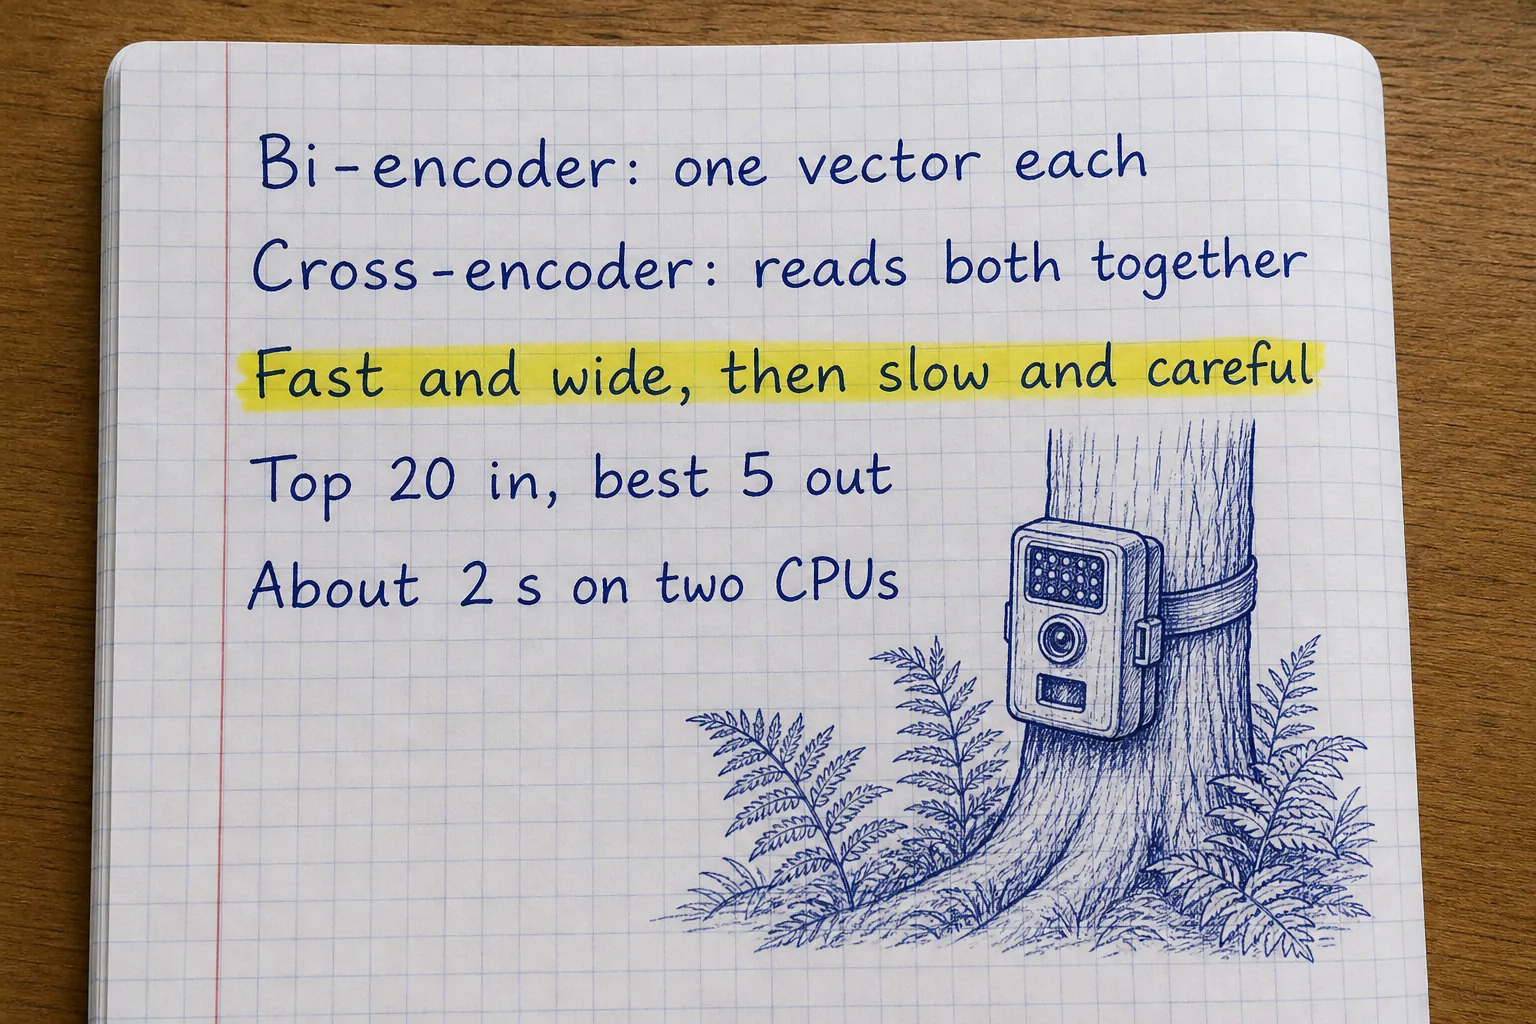
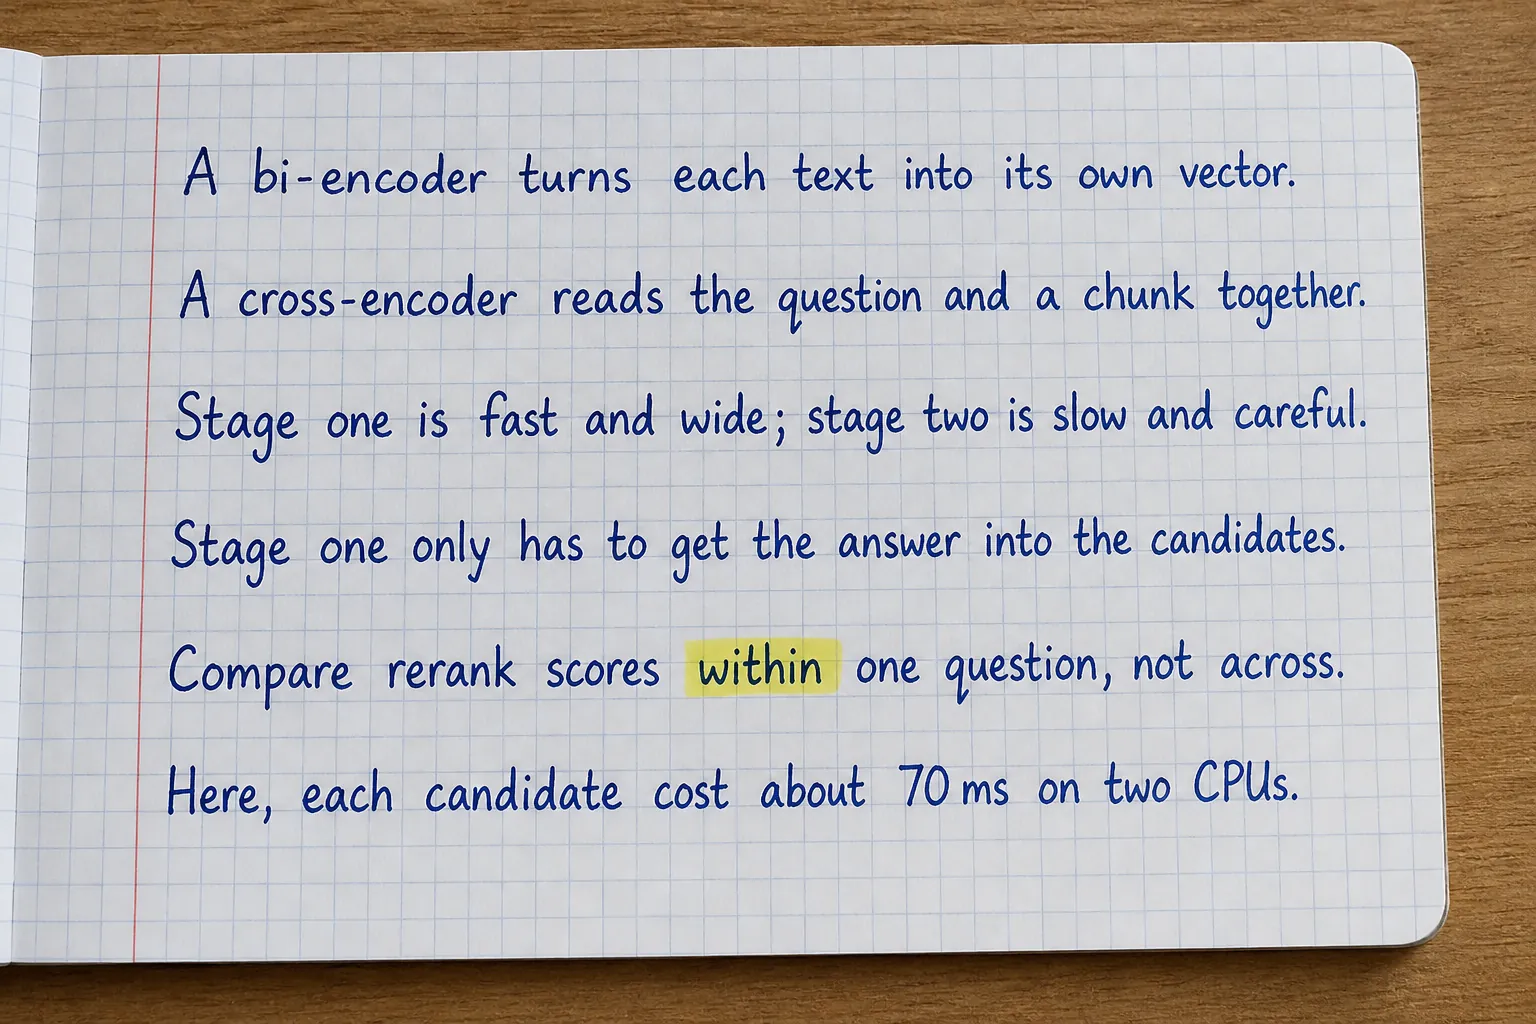
RAG chapter 10 rewritten: plain and fuller, a still two-stage picture with the real jeep run, claims checked and corrected

diff --git a/frontend/src/lesson/Diagrams.tsx b/frontend/src/lesson/Diagrams.tsx
@@ -3620,19 +3620,35 @@ function RagRrf() {
 }
 
 function RagTwoStage() {
+  // Real run of rerank_demo.py for the jeep question (55 chunks, 2 CPUs).
+  const fused = ["FM-1.2", "R-0305", "FM-2.2", "FM-3.3", "FM-6.4", "R-0307", "FM-3.2", "FM-6.2"];
+  const reranked: [string, string][] = [["FM-6.2", "-6.6"], ["R-0305", "-6.8"], ["FM-6.3", "-10.5"], ["R-0310", "-10.6"], ["FM-6.5", "-10.6"]];
+  const top = 104, step = 26, h = 22, w = 170, rx = 270;
+  const y = (i: number) => top + i * step;
   return (
-    <SketchSteps
-      title="Wide, then careful"
-      intro="Press Play to follow the jeep question through two stages."
-      label="Reranking"
-      steps={[
-        { label: "the question", says: "Can tourists get out of the jeep to take photos?" },
-        { label: "stage 1: hybrid", says: "Dense search and BM25 each rank the 55 chunks; fusion keeps the best 20. FM-6.2 is in, but only 8th." },
-        { label: "stage 2: rerank", says: "The cross-encoder reads the question with each of the 20 chunks, one pair at a time, about 100 ms each." },
-        { label: "new order", says: "FM-6.2 Visitor rules gets the highest score of the 20 and moves to the top." },
-        { label: "the best 5", says: "The top 5 go to the model as numbered sources." },
-      ]}
-    />
+    <Svg viewBox="0 0 440 432" label="Hybrid search ranks FM-6.2 eighth of 20 candidates for the jeep question; the cross-encoder reads all 20 with the question and puts FM-6.2 first">
+      <text className="dg-note" x={0} y={16}>Can tourists get out of the jeep to take photos?</text>
+      <text className="dg-label" x={0} y={54}>Stage 1: hybrid search</text>
+      <text className="dg-note" x={0} y={74}>55 chunks to 20, under 0.1 s</text>
+      <text className="dg-note" x={0} y={92}>fused order, first 8:</text>
+      <text className="dg-label" x={rx} y={54}>Stage 2: cross-encoder</text>
+      <text className="dg-note" x={rx} y={74}>reads all 20, about 1.4 s</text>
+      <text className="dg-note" x={rx} y={92}>best 5 (score):</text>
+      <line className="dg-arrow" x1={w} y1={y(7) + h / 2} x2={rx} y2={y(0) + h / 2} style={{ markerEnd: "none", opacity: 0.6 }} />
+      <g className="dg-cells-small">
+        {fused.map((id, i) => (
+          <Box key={id} x={0} y={y(i)} w={w} h={h} label={`${i + 1}: ${id}`} tone={id === "FM-6.2" ? "highlight" : "plain"} code />
+        ))}
+        {reranked.map(([id, sc], i) => (
+          <Box key={`r${id}`} x={rx} y={y(i)} w={w} h={h} label={`${i + 1}: ${id} (${sc})`} tone={id === "FM-6.2" ? "highlight" : "copy"} code />
+        ))}
+      </g>
+      <text className="dg-note" x={0} y={y(8) + 16}>... 12 more candidates</text>
+      <text className="dg-note" x={0} y={348}>Stage 1 only has to get FM-6.2 into the 20.</text>
+      <text className="dg-note" x={0} y={368}>Stage 2 puts it first: its score is low, but the</text>
+      <text className="dg-note" x={0} y={388}>highest of the 20 candidates.</text>
+      <Box x={0} y={400} w={440} h={30} label="FM-6.2 Visitor rules: 8th, then 1st" tone="highlight" />
+    </Svg>
   );
 }
 

diff --git a/labs/rag-vector-databases/chapters/10-rerank.md b/labs/rag-vector-databases/chapters/10-rerank.md
@@ -1,15 +1,18 @@
 :::step{type=story title="A second, careful reading"}
-Look at how every search so far has worked. The chunk was turned into a vector **before** anyone asked anything; the
-question was turned into a vector on its own; then two points were compared. The model that made the chunk's vector never
-saw the question. It had to squeeze everything the chunk might ever be asked about into 384 numbers.
+Look at how every search so far has worked. Each chunk was turned into a vector **before** anyone asked anything. The
+question was turned into a vector on its own. Then the two vectors were compared. The model that made the chunk's vector
+never saw the question: it had to squeeze everything the chunk might ever be asked about into one fixed list of numbers
+(384 of them with bge-small).
 
-That is why the "jeep" question went wrong in chapter 9, and why "big cat" in chapter 3 scored FM-4.2 only a little above
-"Finding a dead animal". The search was fast because it was shallow.
+That is why the "jeep" question went wrong in chapter 9, and why in chapter 3 the big-cat question scored FM-4.2, the
+right section, only a little above "Finding a dead animal" (0.595 against 0.565). The search was fast because each side
+was read alone.
 
-There is a slower, deeper way: give a model the question **and** a chunk **together**, and let it read both and say how
-well the chunk answers the question. Doing that for all 55 chunks for every question would be too slow, but for the 20
-candidates that hybrid search already found, it is affordable. This two-step pattern, a fast wide search followed by a
-slow careful judge, is called **reranking**.
+There is a slower, more careful way: give a model the question **and** a chunk **together**, let it read both, and ask
+for one number: how well does this chunk answer this question? Doing that for every chunk would be slow. Here it would
+take about 4 seconds for Fieldbook's 55 chunks, and it is impossible for millions. But for the 20 candidates that hybrid
+search already found, it is affordable. This two-step pattern, a fast wide search followed by a slow careful judge, is
+called **reranking**.
 
 :::mission
 Rerank hybrid search's candidates with a cross-encoder, then build the two-stage pipeline Fieldbook will use from now on,
@@ -18,48 +21,69 @@ and measure what the extra care costs in time.
 :::
 
 :::step{type=concept title="Bi-encoder and cross-encoder" file="10-rerank/fieldbook.py" line="338-342"}
-Two kinds of model, two ways to compare a question and a text:
+Two kinds of model, two ways to compare a question with a text:
 
 | | Bi-encoder (chapters 2 to 9) | Cross-encoder (this chapter) |
 |---|---|---|
 | reads | the question alone, the chunk alone | the question and the chunk **together** |
-| outputs | one vector each | one relevance score for the pair |
-| chunk work done | once, ahead of time | again for every question |
-| speed | microseconds per comparison | tens of milliseconds per pair on a CPU |
-| quality | good | better: it sees which words answer which |
+| outputs | one vector for each | one relevance score for the pair |
+| work on the chunks | done once, ahead of time | done again for every question |
+| time to compare | about a microsecond, once the vectors exist | about 70 ms per pair, measured on this lab's 2 CPUs |
+| quality | good | usually better: it sees which words of the chunk answer which words of the question |
 
-Fieldbook's cross-encoder is **ms-marco-MiniLM-L-6-v2**: a small transformer (6 layers) trained on hundreds of thousands
-of real web search questions, each with passages people judged relevant. It is already in your lab machine.
+"Bi" means two: the two texts are encoded separately. "Cross" means the two texts are read across each other, in one
+pass.
 
-Its scores are not cosines: they are unbounded numbers where higher means more relevant. Roughly, above 0 is a good
-match and below -5 is a poor one, but, as with cosines, a score is most useful **compared with the other candidates for
-the same question**.
+Fieldbook's cross-encoder is **ms-marco-MiniLM-L-6-v2**. Its name says what it is:
 
-`reranker().rerank(question, texts)` returns one score per text, in the same order as the texts.
+- **MiniLM** is a small **transformer**, the kind of neural network behind today's language models. A transformer is
+  built from **layers**, steps that each refine the model's reading of the text; **L-6** means this one has 6 of them
+  (large models have dozens).
+- **ms-marco** is what it learned from: MS MARCO, a collection of about half a million real web search questions, each
+  with passages that people marked as answering it.
+
+It is already in your lab machine, so it runs offline.
+
+**Its scores are not cosines.** They are plain numbers with no fixed range, where higher means more relevant. On
+Fieldbook's 26 test questions we measured: right chunks scored about 4 in the middle (9 in 10 above -1.9), wrong chunks
+about -11 (9 in 10 below -7). But a score is most useful **compared with the other candidates for the same question**:
+in the jeep question below, the right chunk scores only -6.6, and it is still the best of the 20.
+
+`reranker().rerank(question, texts)` returns one score per text, in the same order as the texts. `reranker()` loads the
+model once and keeps it (`@lru_cache`); loading takes about 0.8 seconds.
 :::
 
 :::step{type=task task=rerank title="Your turn: score question and chunk together" file="10-rerank/fieldbook.py" line="345-350"}
 Write `rerank(question, chunks, top_n=5)`:
 
-1. `scores = list(reranker().rerank(question, [chunk_text(c) for c in chunks]))`.
-2. Order the positions by score, highest first (`np.argsort(scores)[::-1]`), and keep `top_n` of them.
+1. `scores = list(reranker().rerank(question, [chunk_text(c) for c in chunks]))`: one score per chunk.
+2. Order the positions by score, highest first: `np.argsort(scores)[::-1]` (`argsort` sorts lowest first, and `[::-1]`
+   reverses it). Keep the first `top_n`.
 3. Return a **copy** of each of those chunks with its score added: `dict(chunks[i], rerank=float(scores[i]))`.
 
-Copies matter: the index keeps using its chunks for the next question, so do not write into them. Press **Check**.
+The usual slips:
+
+- Writing the score into the chunk itself (`chunks[i]["rerank"] = ...`). The index keeps its chunks for the next question,
+  so they would carry this question's scores. `dict(...)` makes a copy.
+- Forgetting `[::-1]`: you then keep the five **worst** chunks.
+
+Press **Check**.
 :::
 
 :::step{type=history title="Reading the question and the passage together"}
 :::before{title="One vector per passage"}
-Search systems compared precomputed representations: word counts, then embeddings. Fast, but the passage was represented
-without knowing the question.
+Search systems compared representations made ahead of time: word counts, then embeddings. Fast, but each passage was
+represented without knowing the question.
 :::
 
 In **2016** Microsoft released **MS MARCO**, a dataset of real Bing search questions with passages that people marked as
-answering them, big enough to train neural rankers. In **2018** Google published **BERT**, a transformer that reads two
-texts side by side. Rodrigo Nogueira and Kyunghyun Cho fed it a question and a passage together in **2019** and asked for
-one number: the jump in quality on MS MARCO was the largest the benchmark had seen. Smaller copies trained to imitate
-large models (MiniLM, **2020**) made cross-encoders fast enough for a CPU, and hosted reranking services (**2023**) made
-"retrieve, then rerank" a standard part of RAG.
+answering them, big enough to train neural rankers. In **2018** Google published **BERT**, a transformer that can read two
+texts side by side. In **2019** Rodrigo Nogueira and Kyunghyun Cho fed BERT a question and a passage together and asked
+for one number; on MS MARCO it beat the previous best result by 27% (relative, on the leaderboard's main measure).
+
+In **2020** Microsoft's **MiniLM** showed how to train a small transformer to copy a large one, and small cross-encoders
+trained this way became fast enough for an ordinary CPU. From **2023**, hosted reranking services (Cohere's, for example)
+made "retrieve, then rerank" a standard part of RAG.
 
 :::solved
 **Precision where it counts.** The fast search only has to put the right chunk somewhere in the top 20; the careful
@@ -70,8 +94,8 @@ reader puts it first.
 - **2016** MS MARCO: real questions, judged passages.
 - **2018** BERT reads two texts together.
 - **2019** BERT as a reranker (Nogueira and Cho).
-- **2020** MiniLM: small enough for a CPU.
-- **2023** Reranking becomes a standard RAG step.
+- **2020** MiniLM: small transformers that copy big ones.
+- **2023** Hosted reranking becomes a standard RAG step.
 :::
 :::
 
@@ -89,16 +113,26 @@ stage 2: cross-encoder over 20 candidates    slow, careful: the best 5
 ```
 
 :::diagram{name="rag-two-stage"}
-Hybrid search narrows 55 chunks to 20 candidates in milliseconds; the cross-encoder reads each with the question and keeps 5.
+The real jeep question. Hybrid search, which lost FM-6.2 in chapter 9, still has it 8th among its 20 candidates; the
+cross-encoder reads all 20 with the question and puts FM-6.2 first.
 :::
 
 Stage 1 only has to get the right chunk **into** the 20 (its hit rate at 20); stage 2 has to put it **first**. Each stage
-does what it is good at. `first` and `final` are the two dials: more candidates catch more, and cost more reranking time.
+does what it is good at.
+
+`first` and `final` are the two dials. More candidates catch more, and cost more reranking time: about 70 ms each here.
+One limit of this lab's `hybrid()`: it fuses dense search's top 20 with BM25's top 20, so it can never return more than
+40 candidates (for the 26 test questions, at most 35).
 :::
 
 :::step{type=task task=two_stage title="Your turn: wide, then careful" file="10-rerank/fieldbook.py" line="353-357"}
-Write `two_stage(question, index, first=20, final=5)`: get `index.hybrid(question, k=first)` and return
-`rerank(question, those, top_n=final)`. One line.
+Write `two_stage(question, index, first=20, final=5)`:
+
+1. Get the candidates: `index.hybrid(question, k=first)`.
+2. Return `rerank(question, candidates, top_n=final)`.
+
+It fits in one line. The usual slip: passing `final` to `hybrid` and `first` to `rerank`, the wrong way round, so only
+5 candidates are ever read.
 
 ```bash run
 cd /workspace/10-rerank && python rerank_demo.py
@@ -113,43 +147,48 @@ $ python rerank_demo.py
 A night patrol cannot reach base on the radio. What happens?
   hybrid top 5:   ['FM-9.2', 'R-0403', 'FM-2.2', 'FM-1.3', 'R-0408']
   reranked top 5: ['FM-2.2 (3.7)', 'R-0403 (3.1)', 'FM-9.2 (2.1)', 'FM-1.3 (-0.9)', 'FM-3.3 (-3.5)']
-  reranking 20 candidates took 2393 ms
+  reranking 20 candidates took 2490 ms
 
 Who is allowed into the core zone?
   hybrid top 5:   ['FM-1.1', 'FM-6.4', 'FM-2.1', 'FM-6.2', 'FM-9.2']
   reranked top 5: ['FM-6.4 (7.0)', 'FM-1.1 (4.0)', 'FM-9.2 (-1.2)', 'FM-2.1 (-2.2)', 'FM-6.2 (-8.9)']
-  reranking 20 candidates took 1698 ms
+  reranking 20 candidates took 1694 ms
 
 Can tourists get out of the jeep to take photos?
   hybrid top 5:   ['FM-1.2', 'R-0305', 'FM-2.2', 'FM-3.3', 'FM-6.4']
   reranked top 5: ['FM-6.2 (-6.6)', 'R-0305 (-6.8)', 'FM-6.3 (-10.5)', 'R-0310 (-10.6)', 'FM-6.5 (-10.6)']
-  reranking 20 candidates took 1901 ms
+  reranking 20 candidates took 1798 ms
 ```
 
-1. **The night patrol.** Hybrid search put FM-9.2 (radios and phones) first. The reranker prefers **FM-2.2 Night
-   patrols**, which says exactly what happens when a night patrol misses two check-ins, then R-0403, the night the pair
-   on beat B-08 lost radio contact. Both are better answers to this question.
-2. **The core zone.** FM-6.4 (research permits allow entry into the core zone) moves above FM-1.1 (the zone
-   definitions). Either can answer; notice how far apart the scores are (7.0 and 4.0 against -1.2 and below): the
-   reranker is sure about two chunks and not the rest.
-3. **The jeep, repaired.** FM-6.2 Visitor rules, lost by fusion in chapter 9, was still among the 20 candidates, and the
-   reranker puts it back on top. Its score is low (-6.6): this small model is guided a lot by shared words, and the
-   question shares few with the section. But it is the highest of the 20, which is what ranking needs.
+The ids and scores will be the same on your machine; the times will differ a little.
 
-**The price: about 2 seconds a question** on your two CPUs, for 20 chunks (about 100 ms a chunk). Hybrid search took
-about 20 ms. For a ranger asking a question on a phone, 2 seconds is acceptable; for a search box that updates as you
-type, it is not. Chapter 12 measures the gain on all 26 questions, so you can decide whether it is worth it.
+1. **The night patrol.** Hybrid search put FM-9.2 (radios and phones) first. The reranker prefers **FM-2.2 Night
+   patrols**, which says exactly what happens when a night patrol misses two check-ins, then R-0403, the night a patrol
+   pair missed two check-ins because its radio battery failed. Both answer this question better.
+2. **The core zone.** FM-6.4 (research permits allow entry into the core zone) moves above FM-1.1 (the zone
+   definitions). Either can answer. Notice the gap in the scores: 7.0 and 4.0, then -1.2 and below. The reranker is sure
+   about two chunks and not the rest.
+3. **The jeep, repaired.** FM-6.2 Visitor rules, lost by fusion in chapter 9, was still among the 20 candidates (8th),
+   and the reranker puts it back on top. Its score is low (-6.6): the question and the section share almost no words, and
+   this small model leans on shared words. But -6.6 is the highest of the 20, and ranking only needs the order.
+
+**The price.** Reranking 20 chunks took 1.7 to 2.5 seconds a question in this run, on the lab machine's 2 CPUs. The
+first question also paid about 0.8 seconds to load the model; once loaded, we measured about 1.4 seconds, roughly 70 ms a
+chunk. Hybrid search took under 0.1 seconds. For a ranger asking a question on a phone, 1.5 seconds is acceptable; for
+a search box that updates as you type, it is not. Chapter 12 measures the gain on all 26 questions, so you can decide
+whether it is worth it.
 :::
 
 :::step{type=predict title="Guess first"}
 :::question
-You raise `first` from 20 to 55 (every chunk). What happens?
+You raise `first` from 20 to 30. What happens?
 :::
-- [x] Reranking takes about 2.75 times as long, and catches chunks stage 1 had ranked below 20
-- [ ] Nothing changes, because the reranker only looks at the top 5
-- [ ] It gets faster, because hybrid search is skipped
+- [x] Reranking takes about 1.5 times as long, and can catch a right chunk that the fused list ranked 21st to 30th
+- [ ] Nothing changes, because the reranker only returns the top 5
+- [ ] It gets faster, because fewer chunks are left for stage 2
 :::explain
-Reranking time grows with the number of candidates. Reranking everything is only possible because Fieldbook is tiny.
+Reranking time grows with the number of candidates: 30 instead of 20 is about 1.5 times the work. Raising `first` much
+further does nothing in this lab: `hybrid()` never returns more than 40 candidates (dense top 20 plus BM25 top 20).
 :::
 :::
 
@@ -161,7 +200,7 @@ Why can the chunks' vectors be computed ahead of time, but not the cross-encoder
 - [x] A cross-encoder score depends on the question and the chunk together, and the question is only known when it is asked
 - [ ] Scores change every day
 :::explain
-That is the whole trade: precomputed means fast, joint reading means accurate.
+That is the whole trade: computed ahead means fast, reading both together means more accurate.
 :::
 :::
 
@@ -173,23 +212,25 @@ In a two-stage search, what must stage 1 be good at?
 - [x] Getting the right chunk anywhere into its candidates
 - [ ] Being exact
 :::explain
-Stage 1 is judged by hit rate at `first`, stage 2 by what comes first. Chapter 12 measures both.
+Stage 1 is judged by its hit rate at `first`, stage 2 by what comes first. Chapter 12 measures both.
 :::
 :::
 
 :::step{type=deep-dive title="Go deeper: reranking in production"}
-**Hardware.** On a GPU, a MiniLM cross-encoder scores hundreds of pairs in tens of milliseconds. On CPUs, keep `first`
-small (10 to 30) or use a smaller model.
+**Hardware.** A GPU (graphics processor) runs these models much faster. The model's documentation (from the
+sentence-transformers project) lists about 1,800 passages a second for this model on one data-centre GPU, an Nvidia
+V100. On CPUs, keep `first` small (10 to 30) or use a smaller model.
 
-**Bigger rerankers.** BAAI's bge-reranker models, and hosted reranking APIs, are slower and better, and handle more
-languages. Language models themselves can rerank ("which of these passages answers the question?"), at a much higher
-price per question.
+**Bigger rerankers.** BAAI's bge-reranker models and hosted reranking APIs are slower and often better, and some handle
+many languages. Language models themselves can rerank ("which of these passages answers the question?"), at a much
+higher price per question.
 
-**Late interaction.** ColBERT (2020) keeps one vector per word of every chunk and compares word by word at query time: a
-middle ground between bi-encoders and cross-encoders, supported by several vector databases.
+**Late interaction.** ColBERT (2020) keeps one vector per word piece of every chunk and compares them piece by piece when
+the question arrives: a middle way between bi-encoders and cross-encoders. Qdrant, Vespa and Weaviate can store such
+multi-vectors.
 
-**Caching.** Rangers ask the same questions again and again. Caching the final answer for a normalized question saves
-both the reranking and the model call.
+**Caching.** Rangers ask the same questions again and again. Storing the final answer for a question (after lower-casing
+it and trimming spaces) saves both the reranking and the model call the next time.
 :::
 
 :::step{type=recap}
@@ -198,11 +239,11 @@ You can now:
 - explain the difference between a bi-encoder and a cross-encoder;
 - rerank candidates by scoring the question and each chunk together;
 - build a two-stage retriever: hybrid search for candidates, reranking for the order;
-- weigh reranking's gain in quality against its cost in time.
+- weigh reranking's gain in quality against its cost in time (about 70 ms a candidate on this lab's 2 CPUs).
 
 Next, chapter 11: turning the best chunks into an answer that cites its sources, or honestly says it found nothing.
 
-:::photo{src="/lesson-images/rag/rag-10-notes.webp" alt="Handwritten notes about reranking: Bi-encoder: one vector each; Cross-encoder: reads both together; Fast and wide, then slow and careful; Top 20 in, best 5 out; About 2 s on two CPUs" ai="true"}
+:::photo{src="/lesson-images/rag/rag-10-notes.webp" alt="Handwritten notes about reranking: A bi-encoder turns each text into its own vector. A cross-encoder reads the question and a chunk together. Stage one is fast and wide; stage two is slow and careful. Stage one only has to get the answer into the candidates. Compare rerank scores within one question, not across. Here, each candidate cost about 70 ms on two CPUs." ai="true"}
 One page of notes for this chapter.
 :::
 :::

diff --git a/CHANGELOG.md b/CHANGELOG.md
@@ -1,5 +1,19 @@
 # Changelog
 
+## 25 November: RAG chapter 10 rewritten (easy, a little detailed, checked)
+
+- Bi-encoders and cross-encoders, transformers and layers, MS MARCO, unbounded scores and the two dials are explained
+  where they first appear; tasks list their steps and the usual slips.
+- The two-stage animation is now a still picture of the real jeep question: FM-6.2 8th of hybrid's 20 candidates, then
+  first after reranking (-6.6), with the real times.
+- Checked by re-running the demo in the lab image on 2 CPUs (the lab's size m). Corrected: "raise first to 55, every
+  chunk" was impossible (`hybrid()` fuses two top-20 lists, at most 40 candidates, 35 for the test questions; the quiz
+  now raises it to 30); a pair costs about 70 ms here, not "tens of milliseconds"; hybrid search takes under 0.1 s, not
+  "about 20 ms"; the first question's time includes loading the model (0.8 s); score guidance now measured (right chunks
+  about 4, wrong about -11, the jeep's right chunk -6.6); Nogueira and Cho's gain stated as the paper does (27%
+  relative); the GPU claim is now the model documentation's figure (about 1,800 passages a second on a V100); R-0403
+  described from its text. A new notes page.
+
 ## 25 November: RAG chapter 9 rewritten (easy, a little detailed, checked)
 
 - Dense search, BM25 (term, df, tf, idf, k1, b), tokens, reciprocal rank fusion and sparse vectors are explained where
